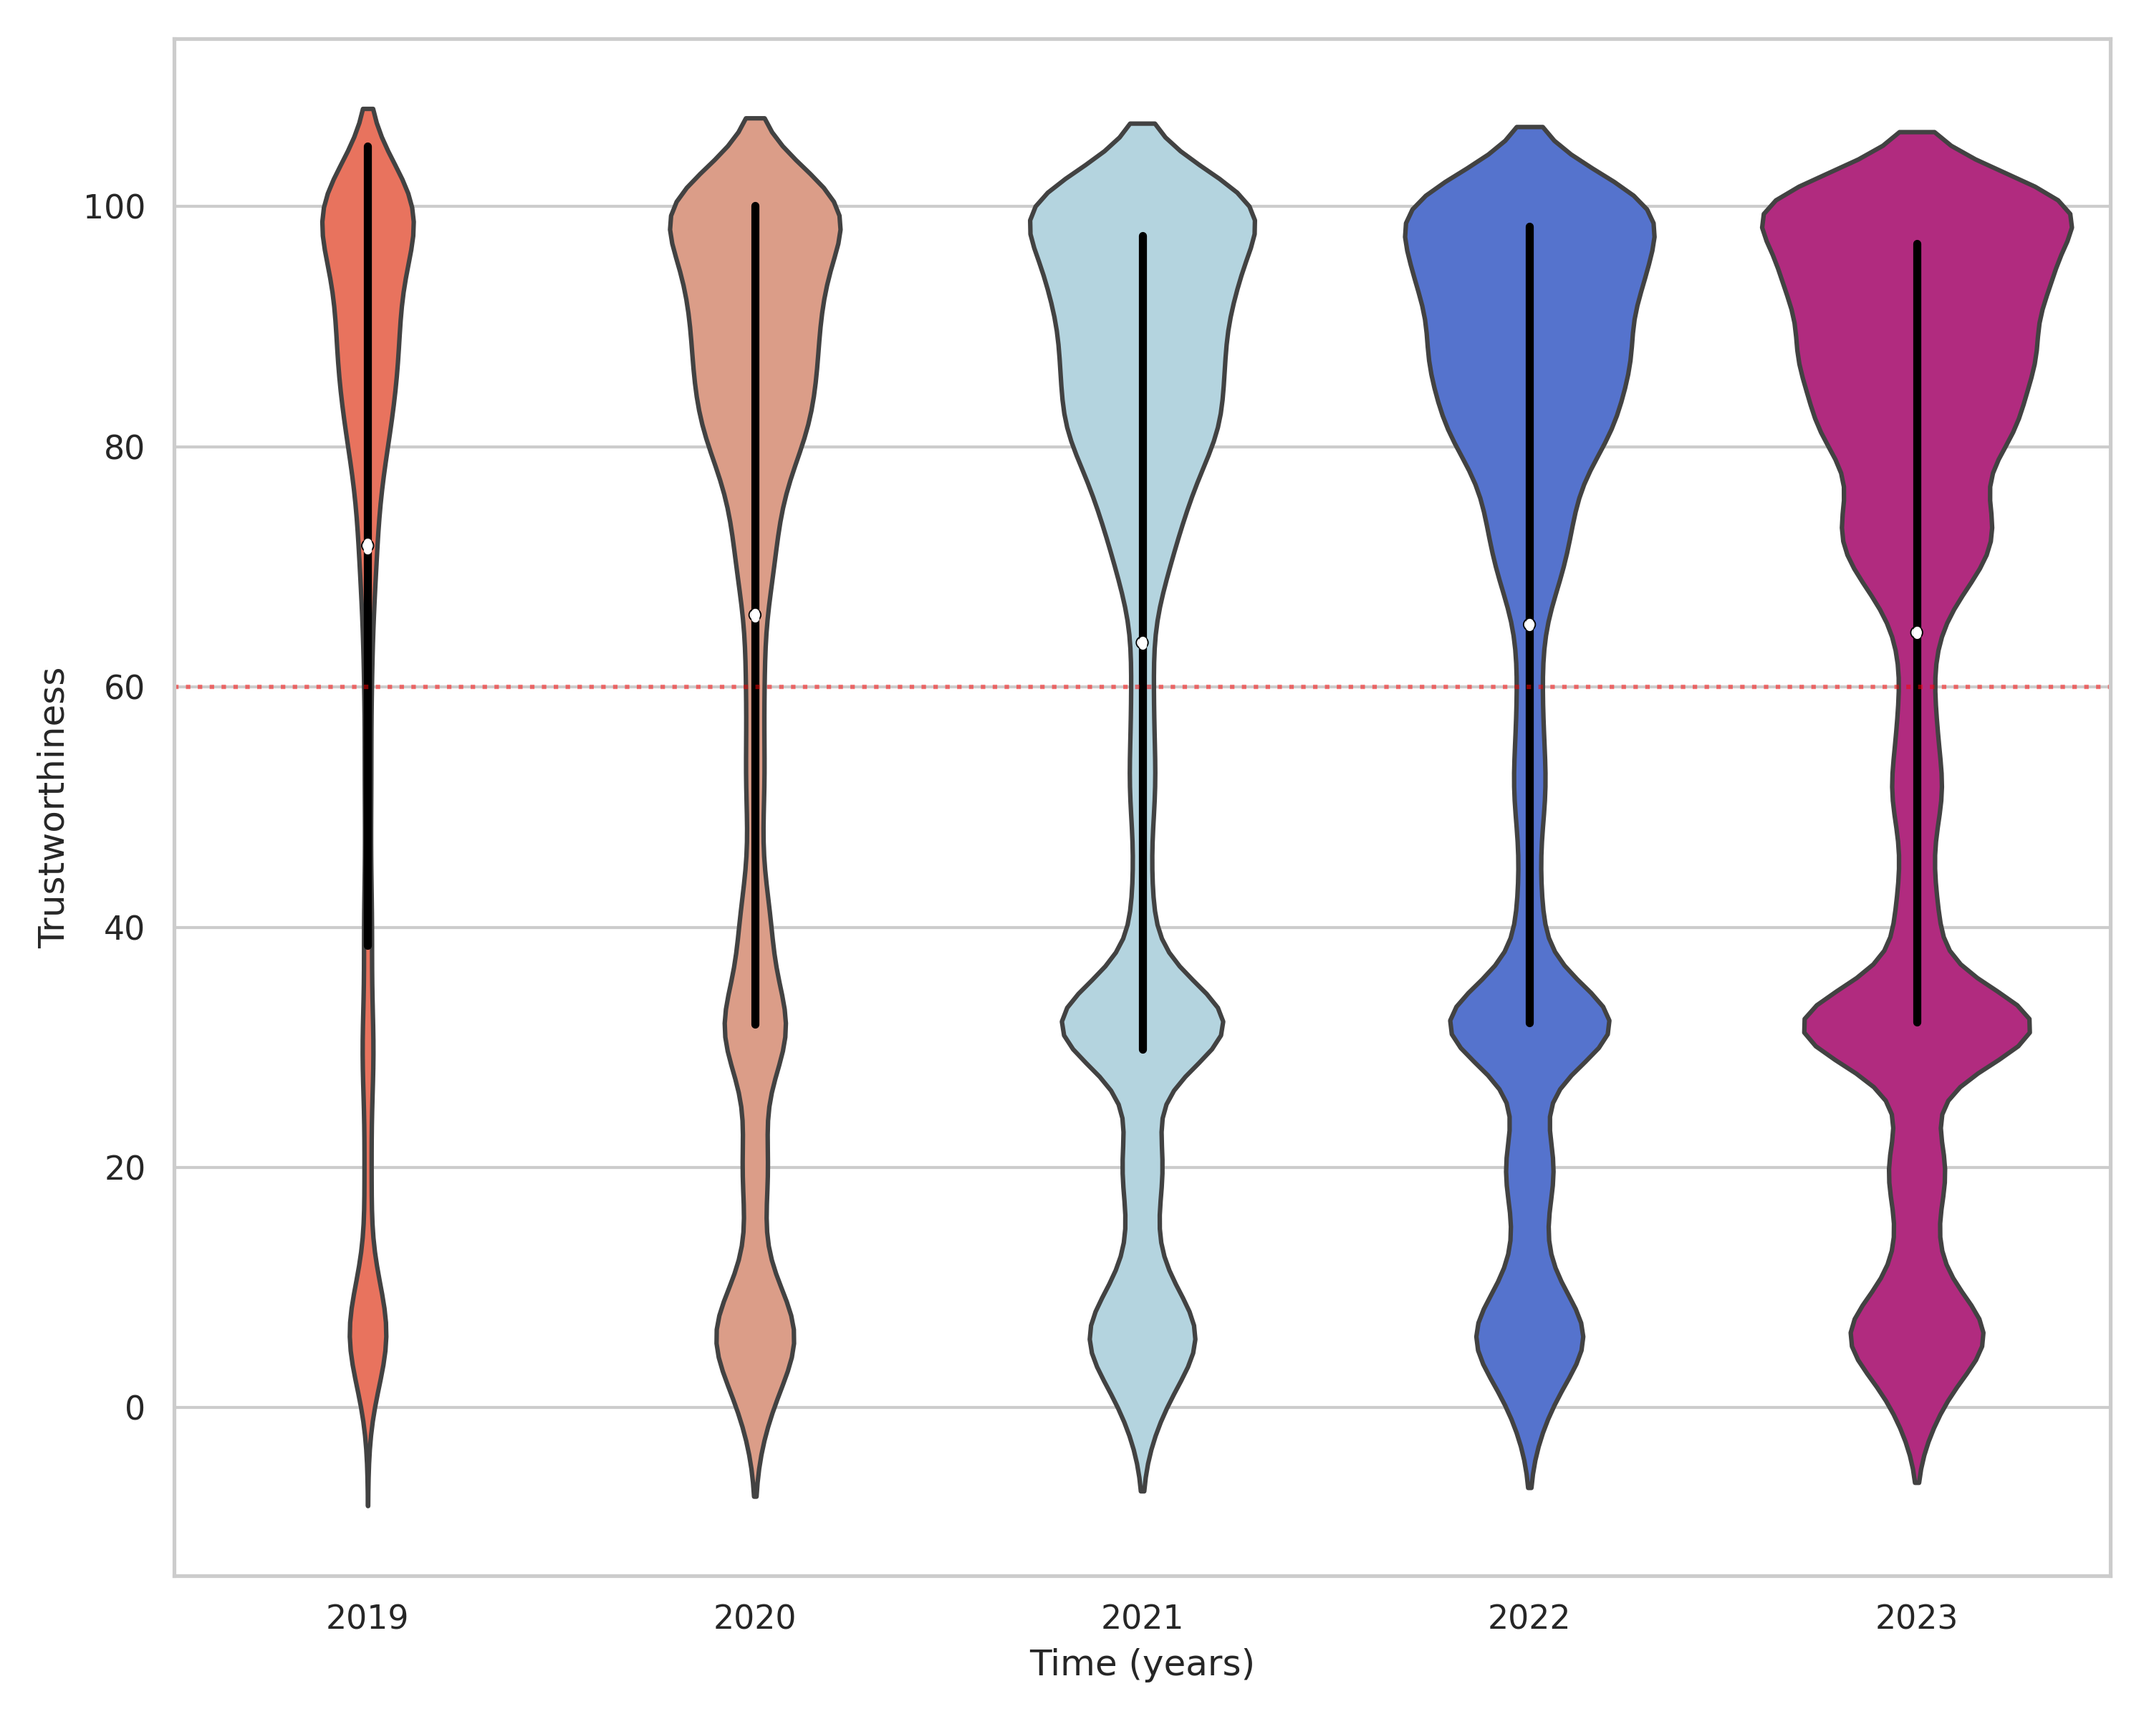
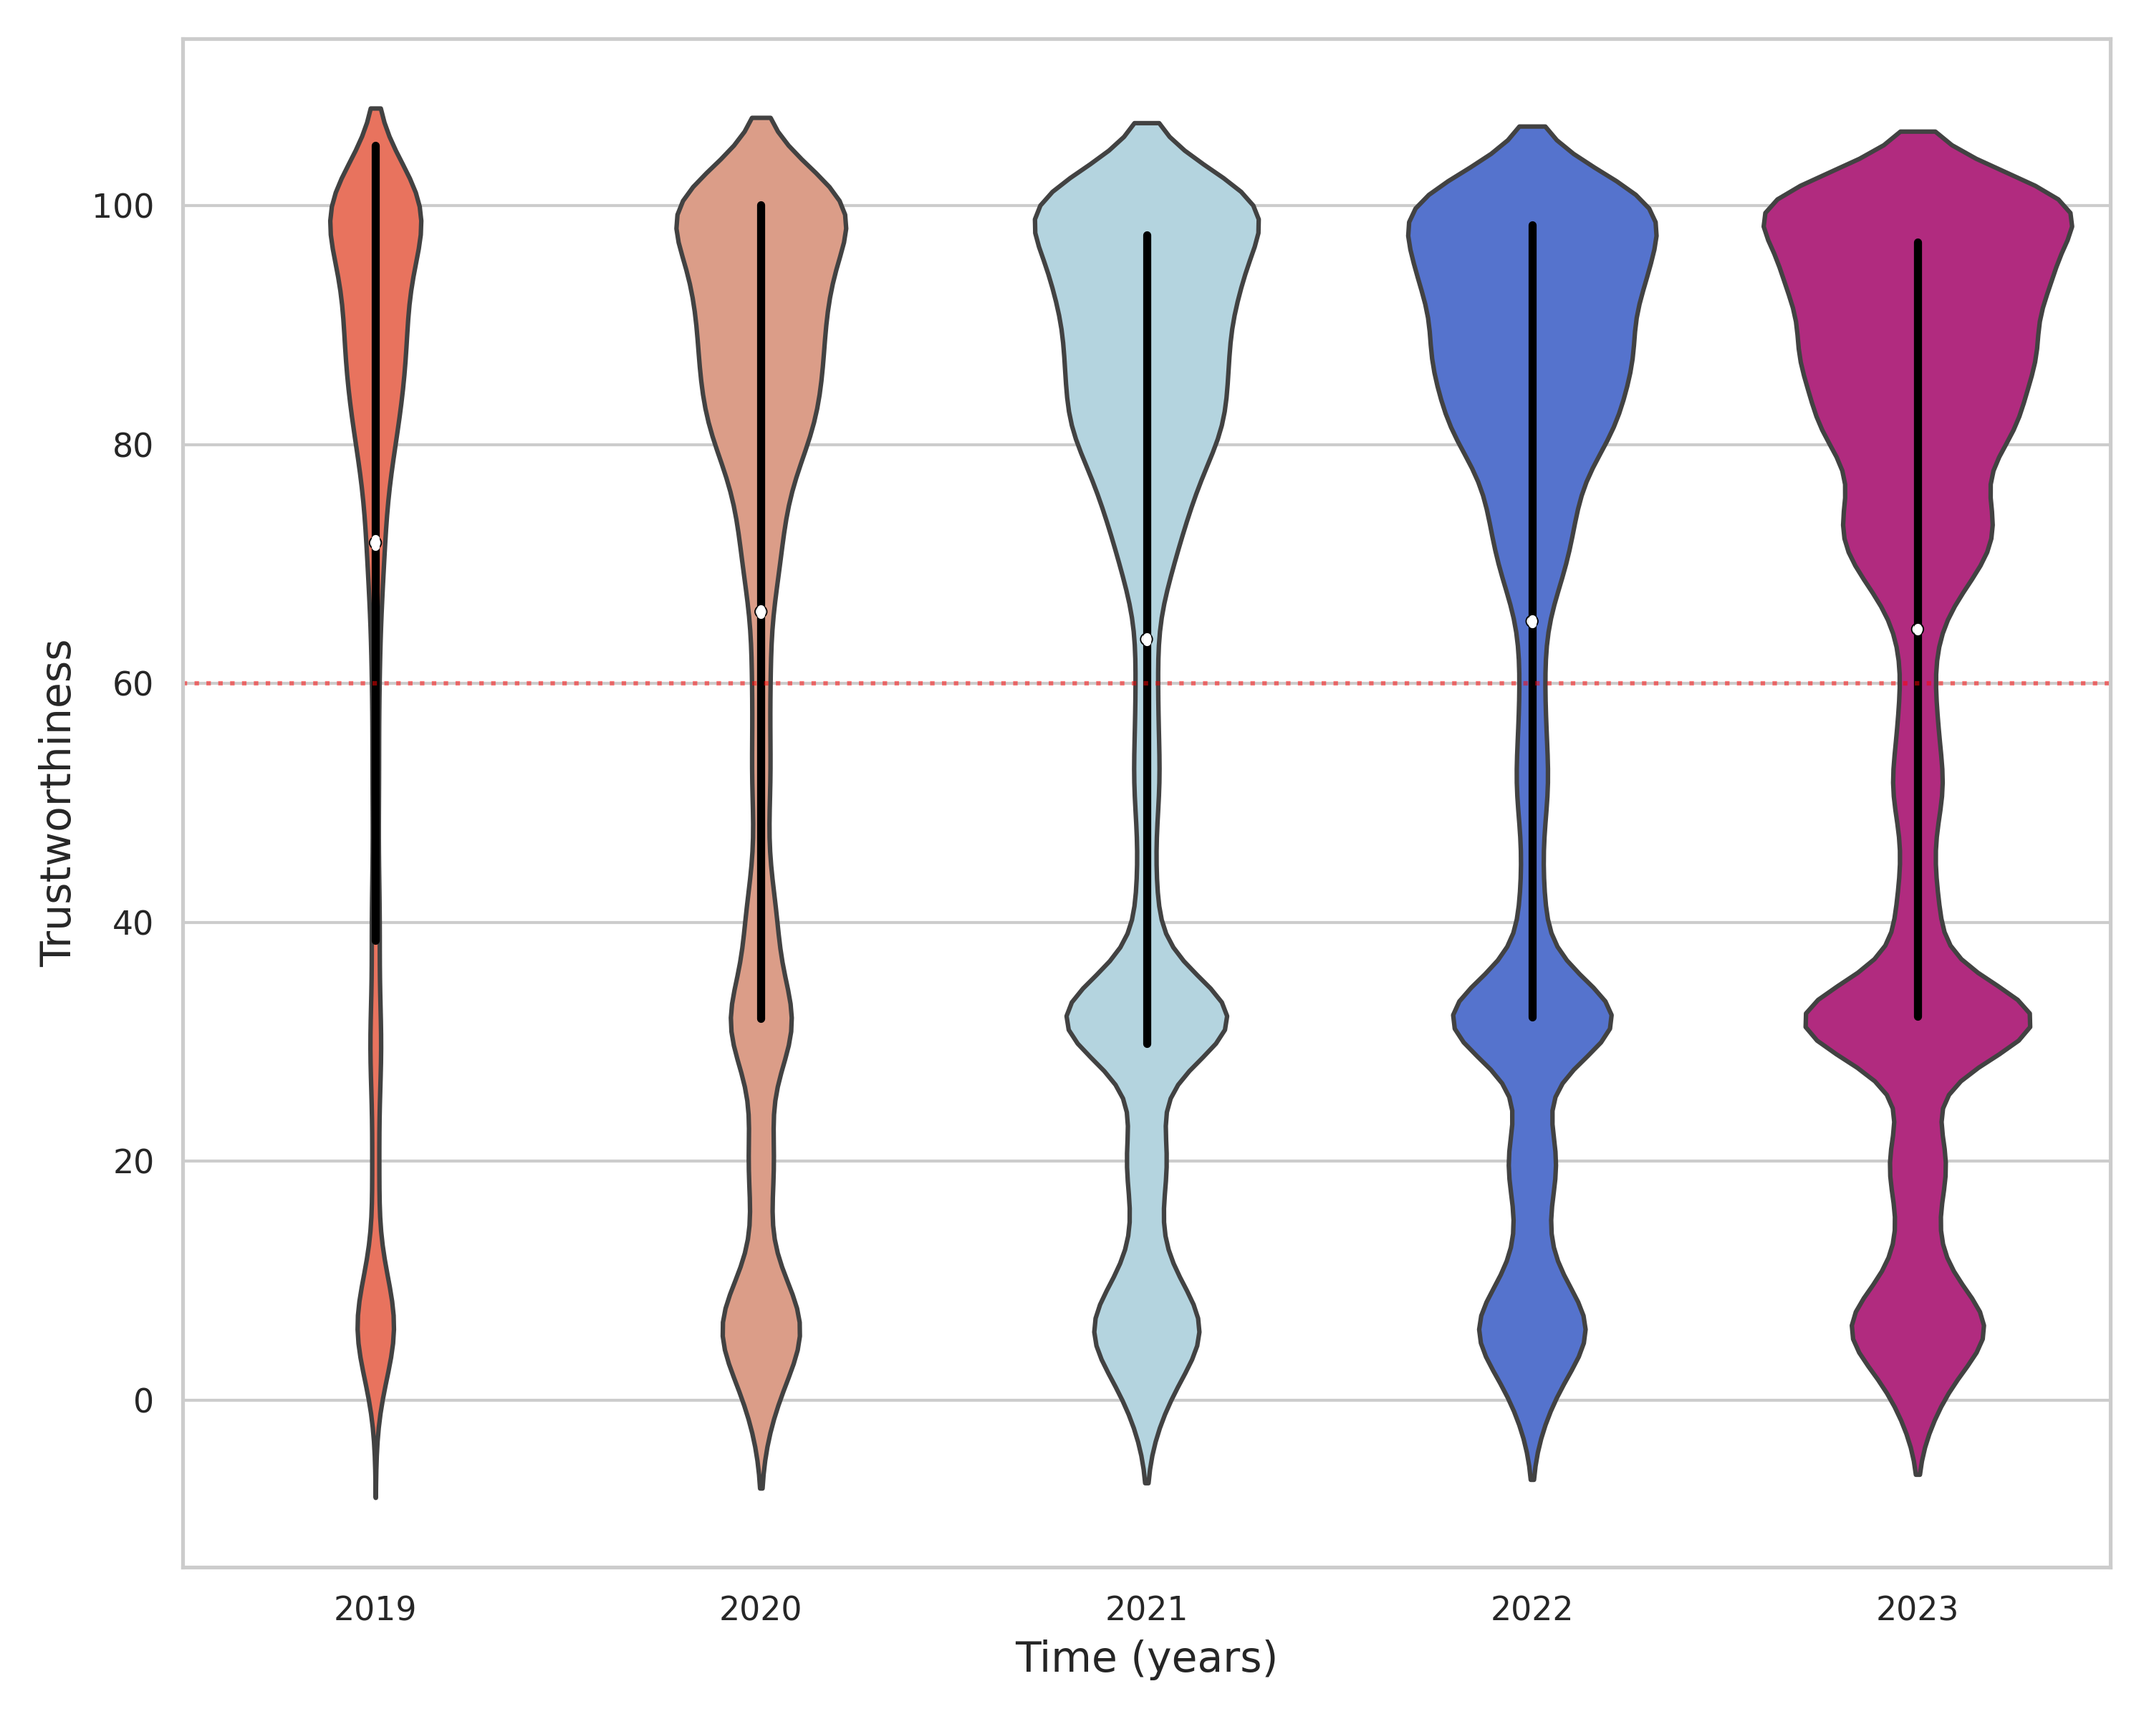
figure font size

diff --git a/tables/t2_countries.tex b/tables/t2_countries.tex
@@ -1,6 +1,6 @@
 \begin{table}[H]
 \centering
-\caption{\textbf{Country Descriptives.}}
+\caption{Country Descriptives.}
 \label{table:table2}
 \begin{tabularx}{\textwidth}{ X c c c c }
 \toprule
